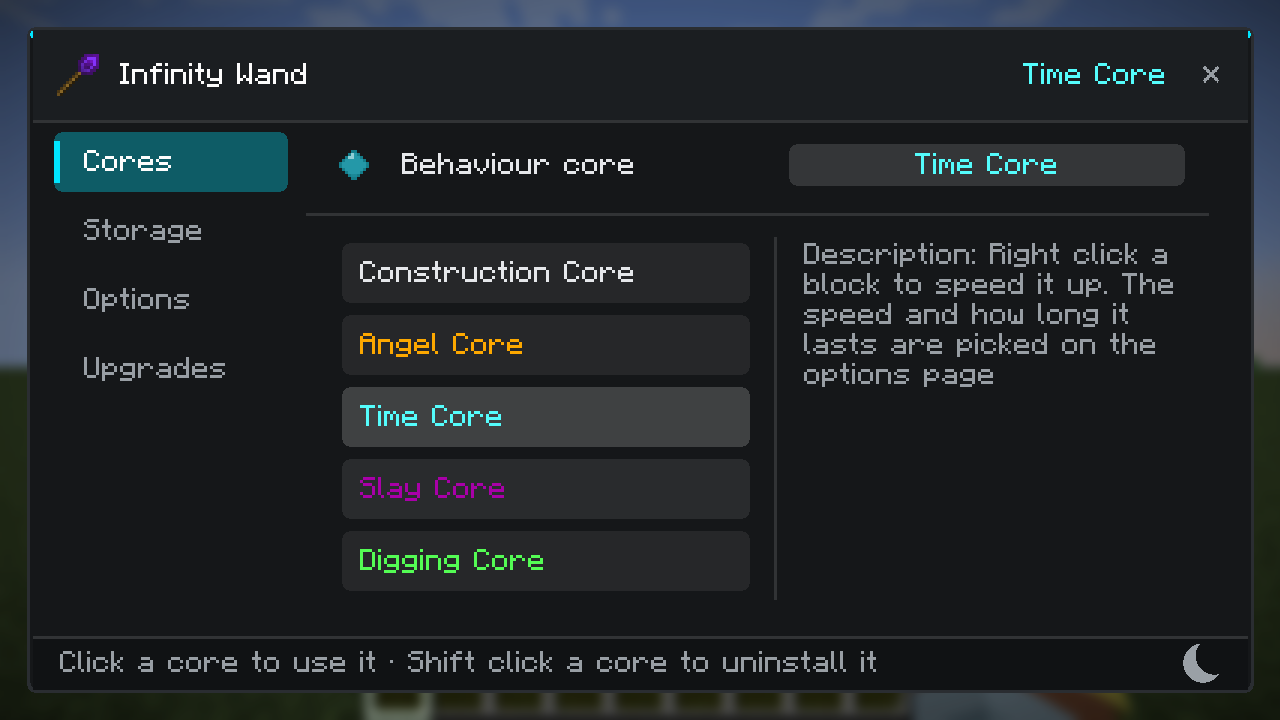
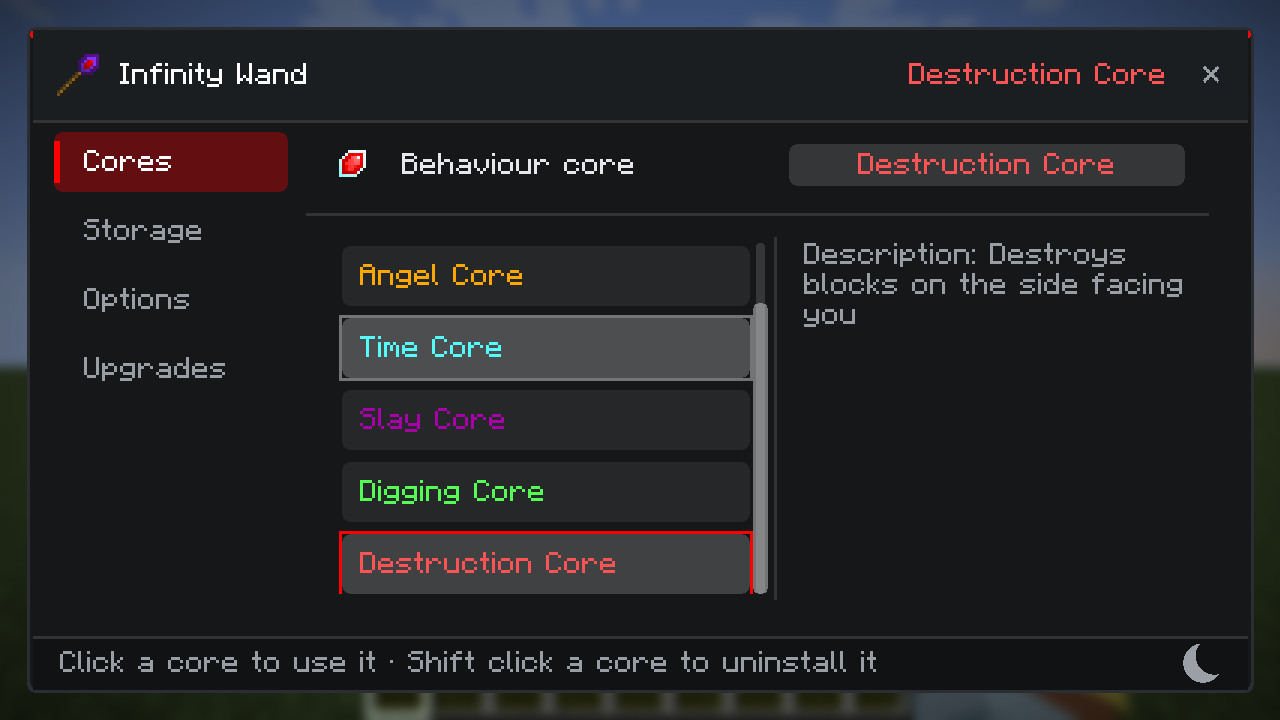
核心列表：描边改为真 1px 边框，悬浮底板更亮（v2.16.43）
- 新增 Ui.outline()（四条 1px fill 组成的边框）
- 选中项：底板之上再画 1px 核心色描边，不再被半透明底板染成实心色块
- 悬浮项：底板 0x3CFFFFFF + 0x66FFFFFF 细边框，文字 Ui.OK
- 截图更新 docs/wand-screen-cores.png（毁灭核心红框 + 时间核心悬浮白框）

diff --git a/src/main/java/dev/polaris_light/constructionwand/client/ui/WandRow.java b/src/main/java/dev/polaris_light/constructionwand/client/ui/WandRow.java
@@ -290,14 +290,15 @@ public abstract class WandRow
                         && mouseY >= entryY && mouseY < entryY + ENTRY_HEIGHT;
 
                 // Every entry carries a plate. It lights up under the mouse, and the picked one is drawn
-                // brighter and ringed in the colour of its core, the same colour its name has.
+                // brighter and ringed in the colour of its core: a border of one pixel, drawn after the
+                // plate, so the plate inside stays readable instead of being drowned by the colour.
+                Ui.rounded(graphics, left, entryY, columnWidth(), ENTRY_HEIGHT,
+                        entry.selected() ? 0x2EFFFFFF : hovered ? 0x3CFFFFFF : 0x12FFFFFF);
                 if(entry.selected()) {
-                    Ui.rounded(graphics, left - 1, entryY - 1, columnWidth() + 2, ENTRY_HEIGHT + 2, entry.color());
-                    Ui.rounded(graphics, left, entryY, columnWidth(), ENTRY_HEIGHT, 0x2EFFFFFF);
+                    Ui.outline(graphics, left - 1, entryY - 1, columnWidth() + 2, ENTRY_HEIGHT + 2, entry.color());
                 }
-                else {
-                    Ui.rounded(graphics, left, entryY, columnWidth(), ENTRY_HEIGHT,
-                            hovered ? Ui.ROW_HOVER : 0x12FFFFFF);
+                else if(hovered) {
+                    Ui.outline(graphics, left - 1, entryY - 1, columnWidth() + 2, ENTRY_HEIGHT + 2, 0x66FFFFFF);
                 }
                 Ui.text(graphics, font, trim(font, entry.label(), columnWidth() - 12), x + 18, entryY + 6,
                         entry.selected() || hovered ? Ui.OK : Ui.TEXT);

diff --git a/src/main/java/dev/polaris_light/constructionwand/client/ui/Ui.java b/src/main/java/dev/polaris_light/constructionwand/client/ui/Ui.java
@@ -432,6 +432,16 @@ public final class Ui
      * The background of a row: a hover highlight, or the faint stripe of every other row, so a long list
      * stays readable without drawing lines between the entries.
      */
+    /**
+     * A border of one pixel, for a plate that has to stand out without being filled in.
+     */
+    public static void outline(GuiGraphics graphics, int x, int y, int width, int height, int color) {
+        if(width <= 2 || height <= 2) return;
+        graphics.fill(x, y, x + width, y + 1, color);
+        graphics.fill(x, y + height - 1, x + width, y + height, color);
+        graphics.fill(x, y + 1, x + 1, y + height - 1, color);
+        graphics.fill(x + width - 1, y + 1, x + width, y + height - 1, color);
+    }
     public static void rowBackground(GuiGraphics graphics, int x, int y, int width, int height,
                                      boolean hovered, boolean striped) {
         if(hovered) {

diff --git a/README-PLUS.md b/README-PLUS.md
@@ -28,6 +28,16 @@
 - `WandData.writeRoot/removeRoot/update`：同样只对手杖生效，任何漏网调用都写不进去。
 
 实测：手持 60 石头右键方块后 `components={…}` 里**没有** `custom_data`；手杖自己仍正常带 `wand_options`。
+## 核心列表：描边改成真 1px 边框、悬浮更亮（2.16.43）
+
+上一版用「外扩 1px 的实心圆角矩形垫底」做边框，内层底板是半透明的，结果**整块都被核心色灌满**（截图里毁灭核心是一条实心红条）。
+现在改为真正的描边：
+
+- `Ui.outline(graphics, x, y, w, h, color)`：用四条 1px `fill` 画边框；
+- **选中**：正常底板（`0x2EFFFFFF`）+ 外圈 1px 核心色描边（先画底板，再画边框，颜色不会透过来）；
+- **悬浮**：底板提到 `0x3CFFFFFF`（比原来的 `ROW_HOVER` 亮很多）+ 外侧 `0x66FFFFFF` 细边框，文字转 `Ui.OK`；
+- 截图 `docs/wand-screen-cores.png`（毁灭核心被选中，红框；鼠标停在时间核心上，白框 + 亮底板）。
+
 ## 核心列表：悬浮高亮 + 选中项按核心颜色描边（2.16.42）
 
 - `WandRow` 记录最近一次绘制时的鼠标位置（`mouseX/mouseY`），让自行绘制内容的行也能判断悬浮；
